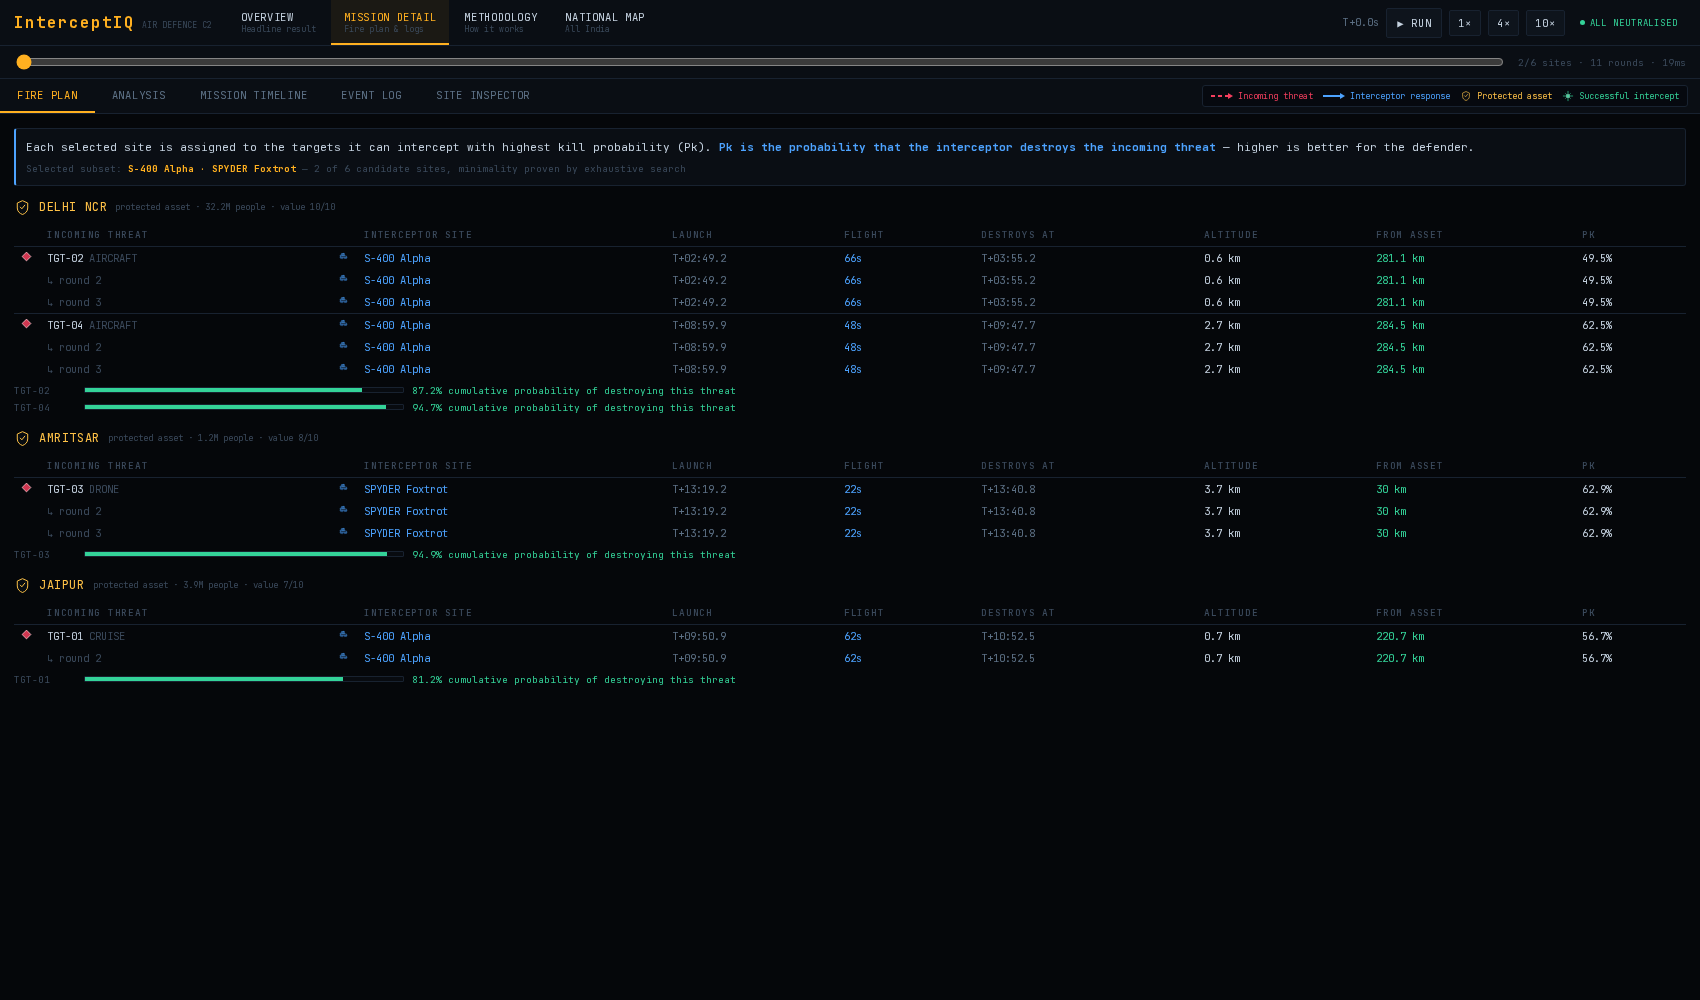
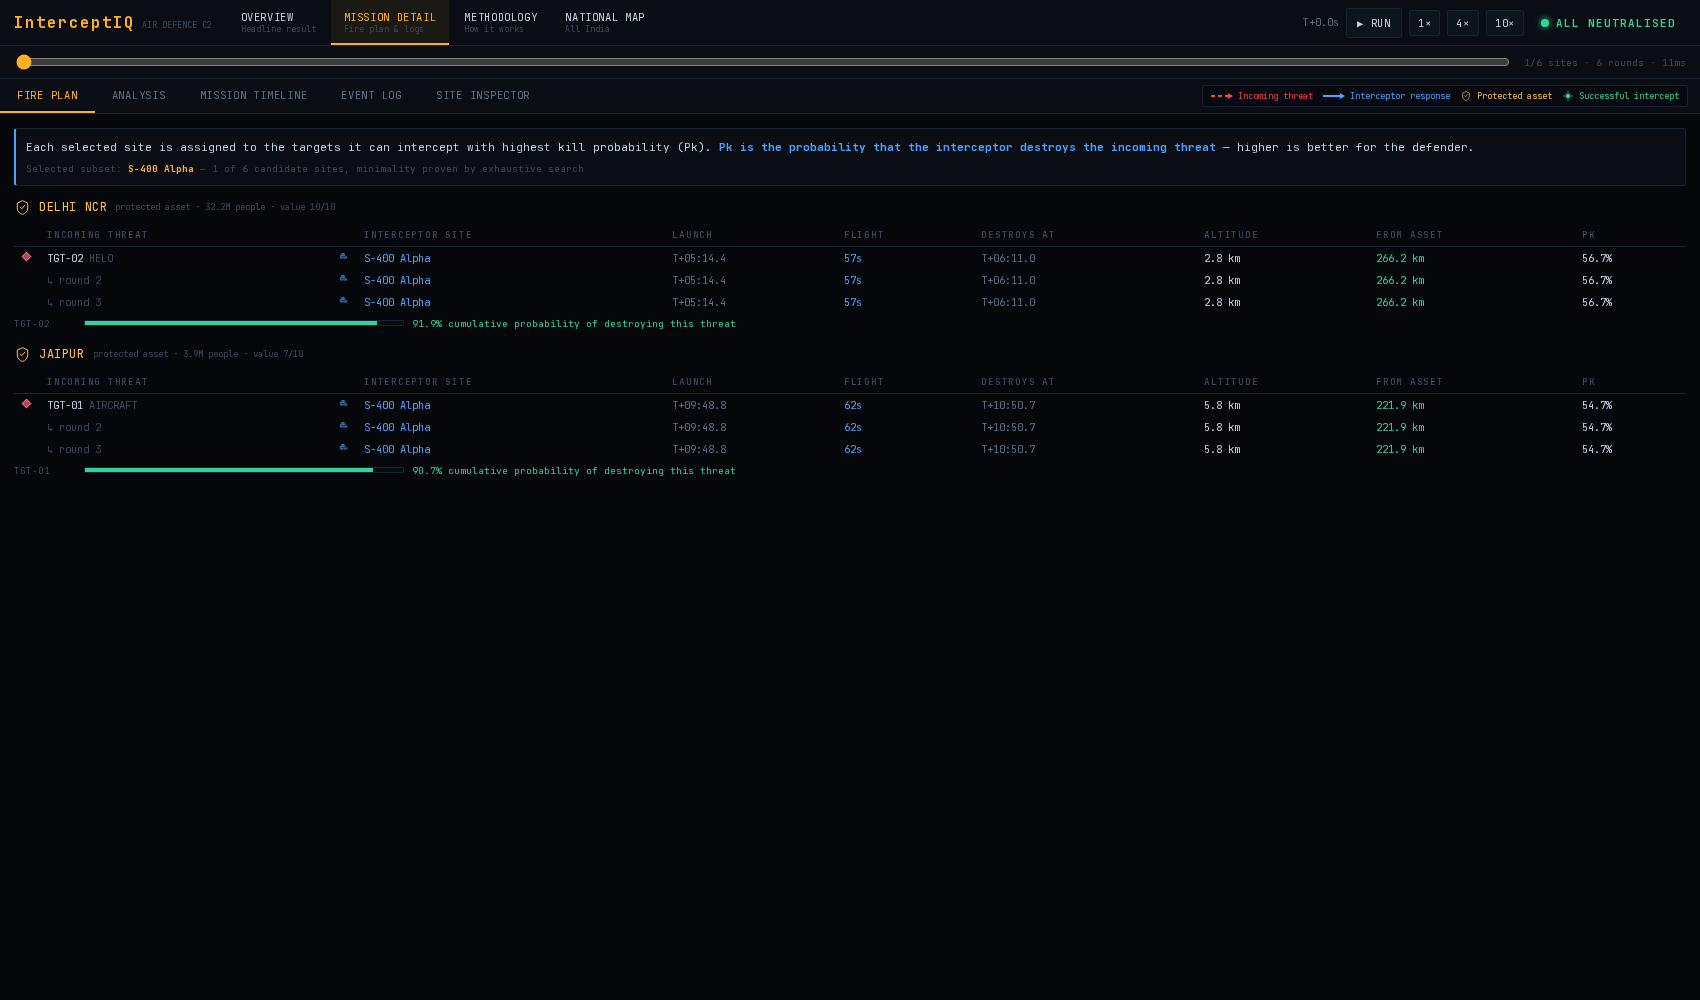
InterceptIQ

diff --git a/components/IndiaMap.tsx b/components/IndiaMap.tsx
@@ -129,6 +129,16 @@ export default function IndiaMap({ lay, sel, onSel, hover, onHover, layers, onCu
         </pattern>
         <radialGradient id="ndome"><stop offset="62%" stopColor="#38bdf8" stopOpacity=".05" /><stop offset="100%" stopColor="#38bdf8" stopOpacity=".22" /></radialGradient>
         <radialGradient id="nradar"><stop offset="88%" stopColor="#a78bfa" stopOpacity="0" /><stop offset="100%" stopColor="#a78bfa" stopOpacity=".055" /></radialGradient>
+        {/* Soft fill for a single radar's horizon. Drawn into a shared mask so
+          * overlapping sets UNION rather than stacking their alpha — otherwise
+          * the dense northwest turns into a solid violet blob while a
+          * single-radar stretch stays invisible. */}
+        <radialGradient id="nradarFill">
+          <stop offset="0%" stopColor="#a78bfa" stopOpacity=".05" />
+          <stop offset="70%" stopColor="#a78bfa" stopOpacity=".05" />
+          <stop offset="93%" stopColor="#a78bfa" stopOpacity=".16" />
+          <stop offset="100%" stopColor="#a78bfa" stopOpacity=".02" />
+        </radialGradient>
       </defs>
 
       <g transform={`translate(${view.x},${view.y}) scale(${view.z}) translate(${offX},${offY}) scale(${base})`}>
@@ -177,7 +187,23 @@ export default function IndiaMap({ lay, sel, onSel, hover, onHover, layers, onCu
           return out;
         })()}
 
-        {/* ---------- RADAR COVERAGE ---------- */}
+        {/* ---------- RADAR COVERAGE ----------
+          * The union of every radar horizon, drawn as ONE filled region.
+          * Previously each set was a 0.13-opacity dashed outline with no
+          * fill, which at national scale was effectively invisible — the
+          * Gujarat and Rajasthan frontier looked unwatched even though the
+          * geometry proves 0% of the borderline is outside radar cover.
+          * A single group with group-opacity means overlapping sets union
+          * instead of compounding, so coverage reads evenly everywhere. */}
+        {layers.radar && (
+          <g opacity=".42" style={{ pointerEvents: 'none' }}>
+            {lay.radars.map((r) => (
+              <circle key={'cov' + r.id} cx={PX(r.lon)} cy={PY(r.lat)}
+                r={r.detectKm * kmToPx} fill="url(#nradarFill)" />
+            ))}
+          </g>
+        )}
+
         {layers.radar && lay.radars.map((r) => {
           const on = selRadar === r.id || hover === r.sectorId;
           return (
@@ -185,7 +211,7 @@ export default function IndiaMap({ lay, sel, onSel, hover, onHover, layers, onCu
               onClick={(e) => { e.stopPropagation(); if (!drag.current?.moved) onSel({ kind: 'radar', id: r.id }); }}>
               <circle cx={PX(r.lon)} cy={PY(r.lat)} r={r.detectKm * kmToPx}
                 fill={on ? 'url(#nradar)' : 'none'}
-                stroke="#a78bfa" strokeOpacity={on ? .55 : .13} strokeWidth={(on ? 1.4 : .8) * iz}
+                stroke="#a78bfa" strokeOpacity={on ? .75 : .34} strokeWidth={(on ? 1.6 : 1) * iz}
                 strokeDasharray={`${10 * iz} ${9 * iz}`} />
               <g transform={`translate(${PX(r.lon)},${PY(r.lat)}) scale(${iz})`}>
                 <g transform={`scale(${ICON})`}>

diff --git a/lib/fx.ts b/lib/fx.ts
@@ -150,7 +150,54 @@ export class Particles {
     });
   }
 
-  /** Warhead detonation: flash core, fireball, cooling fragments, ash. */
+  /**
+   * INTERCEPT AIRBURST — a hit-to-kill / fragmentation kill at altitude.
+   *
+   * Deliberately NOT `detonate`. A warhead going off at 15-30 km is not a
+   * petrol fire: there is a brief brilliant flash, an expanding shock front,
+   * and a spray of cooling fragments that fades in under a second. There is
+   * no orange fireball and no rising ash column, because there is nothing up
+   * there to burn and no ground to throw up.
+   *
+   * The previous version reused the ground-explosion effect — orange 'fire'
+   * sprites plus a lingering 'ash' cloud — which is what made an intercept
+   * read as an arcade explosion rather than a kill.
+   */
+  airburst(x: number, y: number, scale = 1) {
+    this.shock(x, y, scale * 0.9);
+
+    // brief white-hot core — the flash, gone in ~0.2 s
+    for (let i = 0; i < 8; i++) {
+      this.spawn({
+        x, y,
+        vx: (Math.random() - 0.5) * 120 * scale,
+        vy: (Math.random() - 0.5) * 120 * scale,
+        life: 0.08 + Math.random() * 0.1, max: 0.2,
+        r0: 10 * scale, r1: 34 * scale, kind: 'hot', add: true, drag: 0.8,
+      });
+    }
+    // fragment spray: small, fast, cooling, no gravity arc worth seeing
+    for (let i = 0; i < 20; i++) {
+      const a = Math.random() * Math.PI * 2, s = 180 + Math.random() * 420;
+      this.spawn({
+        x, y, vx: Math.cos(a) * s * scale, vy: Math.sin(a) * s * scale,
+        life: 0.25 + Math.random() * 0.35, max: 0.6,
+        r0: 3 * scale, r1: 0.8, kind: 'hot', add: true, drag: 0.94,
+      });
+    }
+    // thin dissipating smoke puff — a smudge, not a column
+    for (let i = 0; i < 6; i++) {
+      const a = Math.random() * Math.PI * 2, s = 20 + Math.random() * 50;
+      this.spawn({
+        x, y, vx: Math.cos(a) * s * scale, vy: Math.sin(a) * s * scale,
+        life: 0.5 + Math.random() * 0.5, max: 1.0,
+        r0: 6 * scale, r1: 26 * scale, kind: 'smoke', drag: 0.95,
+      });
+    }
+  }
+
+  /** Ground detonation: flash core, fireball, cooling fragments, ash.
+   *  Used for a leaker striking the ground, where there IS something to burn. */
   detonate(x: number, y: number, scale = 1) {
     this.shock(x, y, scale);
     for (let i = 0; i < 22; i++) {

diff --git a/components/FxLayer.tsx b/components/FxLayer.tsx
@@ -132,8 +132,10 @@ export default function FxLayer({ sc, sol, t, playing, project, width, height }:
         if ((ph.state === 'terminal' || ph.state === 'destruct') && !blown.current.has(key)) {
           blown.current.add(key);
           const p = interceptorAt(bp, ip, ph.f, loft, side);
-          if (ph.aborted) parts.detonate(p.x, p.y, 0.22);
-          else parts.detonate(p.x, p.y, 0.55);
+          /* Airburst, not a fireball — an intercept at altitude has nothing
+           * to burn. A self-destruct is smaller still. */
+          if (ph.aborted) parts.airburst(p.x, p.y, 0.2);
+          else parts.airburst(p.x, p.y, 0.5);
         }
       }
 
@@ -146,6 +148,7 @@ export default function FxLayer({ sc, sol, t, playing, project, width, height }:
         if (t >= th.impact.t && !blown.current.has(key)) {
           blown.current.add(key);
           const ip = project(th.impact.p.lat, th.impact.p.lon);
+          // a leaker striking the ground DOES burn — keep the fireball here
           if (ip) parts.detonate(ip.x, ip.y, 0.9);
         }
       }

diff --git a/components/CinematicIntro.tsx b/components/CinematicIntro.tsx
@@ -404,7 +404,10 @@ export default function CinematicIntro({ onDone }: { onDone: () => void }) {
         } else if (!blown.current.has(tr.id)) {
           blown.current.add(tr.id);
           const q = arcAt(tr, 1);
-          parts.detonate(q.x, q.y, tr.kind === 'jet' ? 1.25 : 1.0);
+          /* Air kills are airbursts — flash, shock, fragments. The jet is
+           * hit low enough that its fuel does burn, so it keeps a fireball. */
+          if (tr.kind === 'jet') parts.detonate(q.x, q.y, 1.0);
+          else parts.airburst(q.x, q.y, 1.1);
           sh.kick(tr.kind === 'jet' ? 24 : 18);
         }
       }
